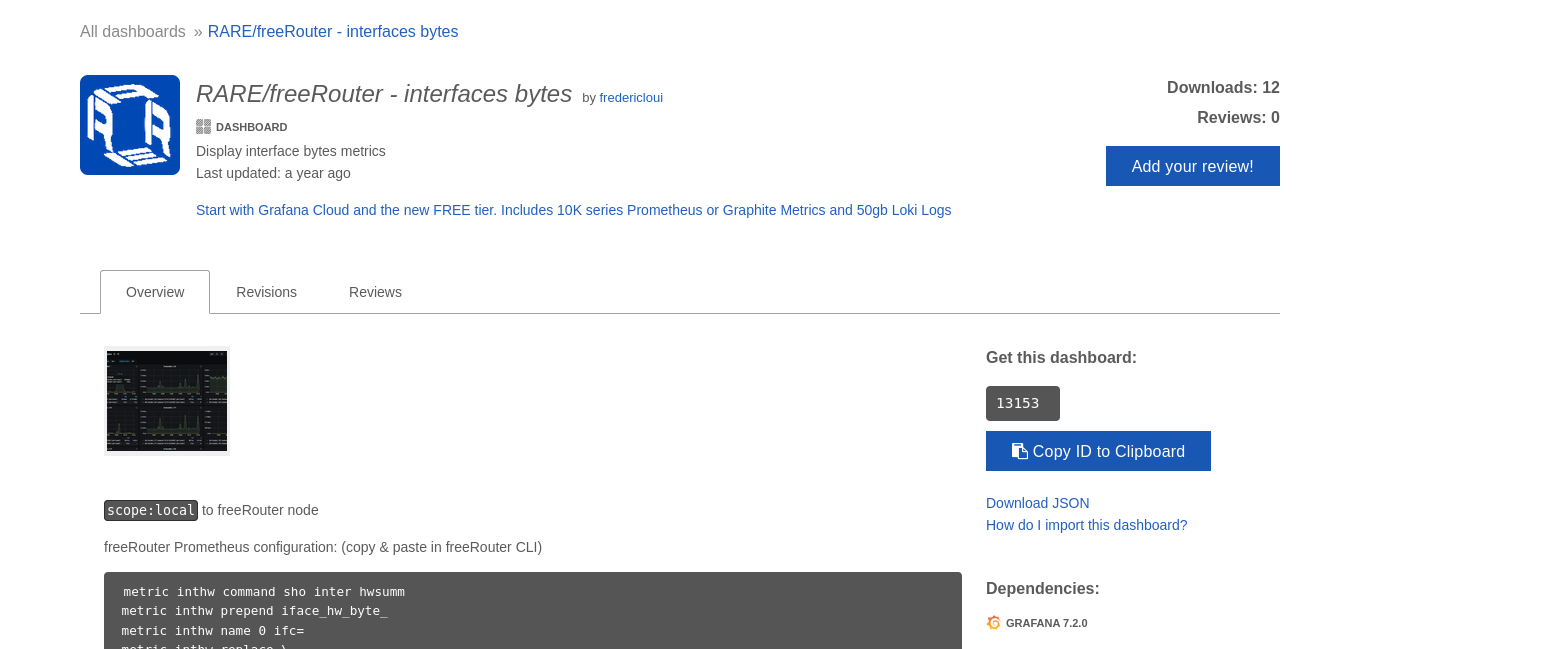
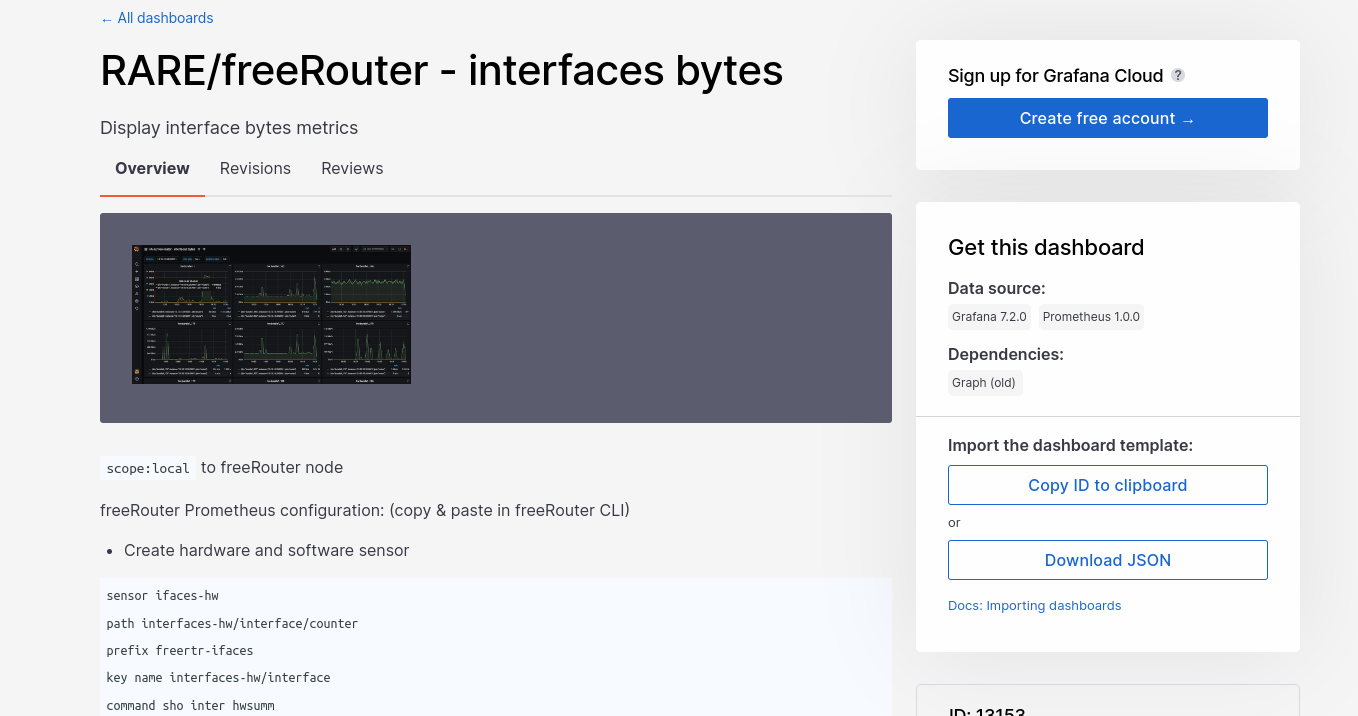
update configuration new sensors

diff --git a/README.md b/README.md
@@ -1,24 +1,86 @@
 # FreeRouter-Prometheus
 
 ## Overview FreeRouter
-
 #### freeRouter is a free, open source router os process. it speaks routing protocols, and (re)encapsulates packets on interfaces.
 
-</br>
 
 ## Requirements
 #### To run this experiment, it is necessary to use a Debian-based Linux operating system.
 
-</br>
+## Update's dashboards
+
+All 26 of Grafana's freeRtr dashboard's have been updated and improved. One of the main differences is that we now have the router name.
+
+
+## Sensor example universal:
+
+- You can use this universal sensor (copy and paste).
+
+```
+sensor ifaces-sw
+path interfaces-sw/interface/counter
+prefix freertr-ifaces
+key name interfaces-sw/interface
+command sho inter swsumm
+prepend iface_sw_byte_
+name 0 ifc=
+replace \. _
+column 1 name st
+column 1 replace admin -1
+column 1 replace down 0
+column 1 replace up 1
+column 2 name tx
+column 3 name rx
+column 4 name dr
+.
+exit
+```
+## freeRtr agent prometheus configuration
+
+```
+server prometheus pr
+ sensor ifaces-hw
+ sensor ifaces-sw
+ vrf <PROMETHEUS_VRF>
+ exit
+```
+
+## Configure Prometheus Server file
+
+```
+global:
+  scrape_interval: 15s
+  scrape_timeout: 10s
+  evaluation_interval: 30s
+alerting:
+  alertmanagers:
+  - static_configs:
+    - targets: []
+    scheme: http
+    timeout: 10s
+scrape_configs:
+- job_name: router
+  scrape_interval: 15s
+  scrape_timeout: 10s
+  metrics_path: /metrics
+  scheme: http
+  static_configs:
+  - targets:
+    - <prometheus_agent_ip_1>:9001
+    labels:
+      node_name: <prometheus_agent_1_node_name>
+  - targets:
+    - <prometheus_agent_ip_2>:9001
+    labels:
+      node_name: <prometheus_agent_2_node_name>
+```
 
 ## Configuration and Install FreeRouter
 
 #### To work the FreeRtr just have java.
 #### Consult the freerouter documentation for installing java:
 
-- [FreeRouter](http://www.freertr.net/)
-
-
+- [FreeRouter](http://www.freertr.org/)
 
 #### Install the latest and greatest Java Runtime Environment (JRE).
 ```
@@ -26,9 +88,9 @@ $ sudo apt-get install --no-install-recommends --no-install-suggests --yes defau
 ```
 #### Download the freeRouter jar binary.
 ```
-$ wget http://www.freertr.net/rtr.jar
+$ wget http://www.freertr.org/rtr.jar
 ```
-</br>
+
 
 ## Experiment Topology
 
@@ -36,7 +98,7 @@ $ wget http://www.freertr.net/rtr.jar
    <img align="center" alt="Topology" src='img-topology/topology.png' />
 </div>
  
-</br>
+
  
 ## Topology Configuration
 - [R1](https://github.com/Tetzdesen/FreeRouter-Prometheus/tree/main/topology/r1)
@@ -152,7 +214,7 @@ $ java -jar <path>/rtr.jar routersc topology/r2//r2-hw.txt topology/r2/r2-sw.txt
 
 ### Verification Grafana
 
-- Download freeRouter interface bytes dashboard [here.](https://grafana.com/grafana/dashboards/13153)
+- Download freeRouter interface bytes dashboard [here.](https://grafana.com/grafana/dashboards/13153-rare-freerouter-interfaces-bytes/)
 <div style='display: inline-block'>
    <img align="center" alt="Img-Grafana-05" src='img-grafana/img-06.png' />
 </div>
@@ -170,9 +232,20 @@ $ java -jar <path>/rtr.jar routersc topology/r2//r2-hw.txt topology/r2/r2-sw.txt
 </br>
 
 - Dashboard Verify
+
+- R1
 <div style='display: inline-block'>
-   <img align="center" alt="Img-Grafana-07" src='img-grafana/img-08.png' />
+   <img align="center" alt="Img-Grafana-07" src='img-grafana/img-001-grafana.png' />
 </div>
+
+</br>
+
+- R2
+<div style='display: inline-block'>
+   <img align="center" alt="Img-Grafana-07" src='img-grafana/img-002-grafana.png' />
+</div>
+
+</br>
 
 ## Integration AlertManager
 
@@ -181,3 +254,5 @@ $ java -jar <path>/rtr.jar routersc topology/r2//r2-hw.txt topology/r2/r2-sw.txt
 ## Integration Alerts Grafana
 - [Integration Grafana Alerts](https://github.com/rare-freertr/freeRtr-prometheus/tree/main/alert-grafana-rules)
 
+
+## Dataplane Monitoring

diff --git a/alertmanager/README.md b/alertmanager/README.md
@@ -1,16 +1,12 @@
 # INTEGRATION ALERTMANAGER, FREEROUTER AND PROMETHEUS
 
-
 ## Overview FreeRouter
 
 #### As seen in the tutorial: https://github.com/rare-freertr/freeRtr-prometheus we can integrate prometheus with freeRtr. From this point, we can evolve to a tutorial involving the alert manager of prometheus (AlertManager), since it allows the integration with an alert manager.
 
-</br>
-
 ## Requirements
 #### To run this experiment, it is necessary to use a Debian-based Linux operating system.
 
-</br>
 
 ## Configuration and Install FreeRouter
 
@@ -18,8 +14,6 @@
 #### Consult the freerouter documentation for installing java:
 
 - [FreeRouter](http://www.freertr.net/)
-
-
 
 #### Install the latest and greatest Java Runtime Environment (JRE).
 ```
@@ -29,12 +23,12 @@ $ sudo apt-get install --no-install-recommends --no-install-suggests --yes defau
 ```
 $ wget http://www.freertr.net/rtr.jar
 ```
-</br>
+
 
 ## Experiment Topology
 
 <div style='display: inline-block'>
-   <img align="center" alt="Topology" src='img-topology/topology.png' />
+   <img align="center" alt="Topology" src='../img-topology/topology.png' />
 </div>
  
 </br>
@@ -197,11 +191,9 @@ $ java -jar <path>/rtr.jar routersc topology/r2//r2-hw.txt topology/r2/r2-sw.txt
 
 - Access: http://localhost:9090
 
-#### Check the alerts panel:
+- Check the alerts panel:
 
-<div style='display: inline-block'>
-   <img align="center" alt="Img-AlertManager" src='img-alertmanager/img-01.png' />
-</div>
+
 
 </br>
 
@@ -230,26 +222,3 @@ r2(cfg)# int eth1
 r2(cfg-if)# shutdown
 ```
 
-### Wait alert is active:
-
-- Access http://localhost:9090
-<div style='display: inline-block'>
-   <img align="center" alt="Img-AlertManager" src='img-alertmanager/img-02.png' />
-</div>
-
-</br>
-
-- Access http://localhost:9093
-
-
-<div style='display: inline-block'>
-   <img align="center" alt="Img-AlertManager" src='img-alertmanager/img-03.png' />
-</div>
-
-</br>
-
-- Access slack chat:
-
-<div style='display: inline-block'>
-   <img align="center" alt="Img-AlertManager" src='img-alertmanager/img-04.png' />
-</div>

diff --git a/dataplane/DPDK/README.md b/dataplane/DPDK/README.md
@@ -1,0 +1,15 @@
+# DPDK Monitoring
+
+## Requirements
+#### To run this experiment, it is necessary to use a Debian-based Linux operating system.
+
+</br>
+
+## Converting to Dataplane DPDK
+```
+write
+test hwext path /rtr/rtr- dataplane dpdkemu
+reload cold
+(just press y)
+```
+

diff --git a/dataplane/P4/README.md b/dataplane/P4/README.md
@@ -1,0 +1,17 @@
+# P4 Monitoring
+
+## Requirements
+#### To run this experiment, it is necessary to use a Debian-based Linux operating system.
+
+</br>
+
+## Converting to Dataplane P4
+```
+write
+test hwext path /rtr/rtr- dataplane p4emu
+reload cold
+(just press y)
+```
+
+
+

diff --git a/dataplane/XDP/README.md b/dataplane/XDP/README.md
@@ -1,0 +1,14 @@
+# XDP Monitoring
+
+## Requirements
+#### To run this experiment, it is necessary to use a Debian-based Linux operating system.
+
+</br>
+
+## Converting to Dataplane XDP
+```
+write
+test hwext path /rtr/rtr- dataplane xdpemu
+reload cold
+(just press y)
+```

diff --git a/dataplane/README.md b/dataplane/README.md
@@ -1,0 +1,13 @@
+## Dataplane Monitoring
+
+## Monitoring P4
+
+
+
+## Monitoring DPDK
+
+
+
+## Monitoring XDP
+
+
